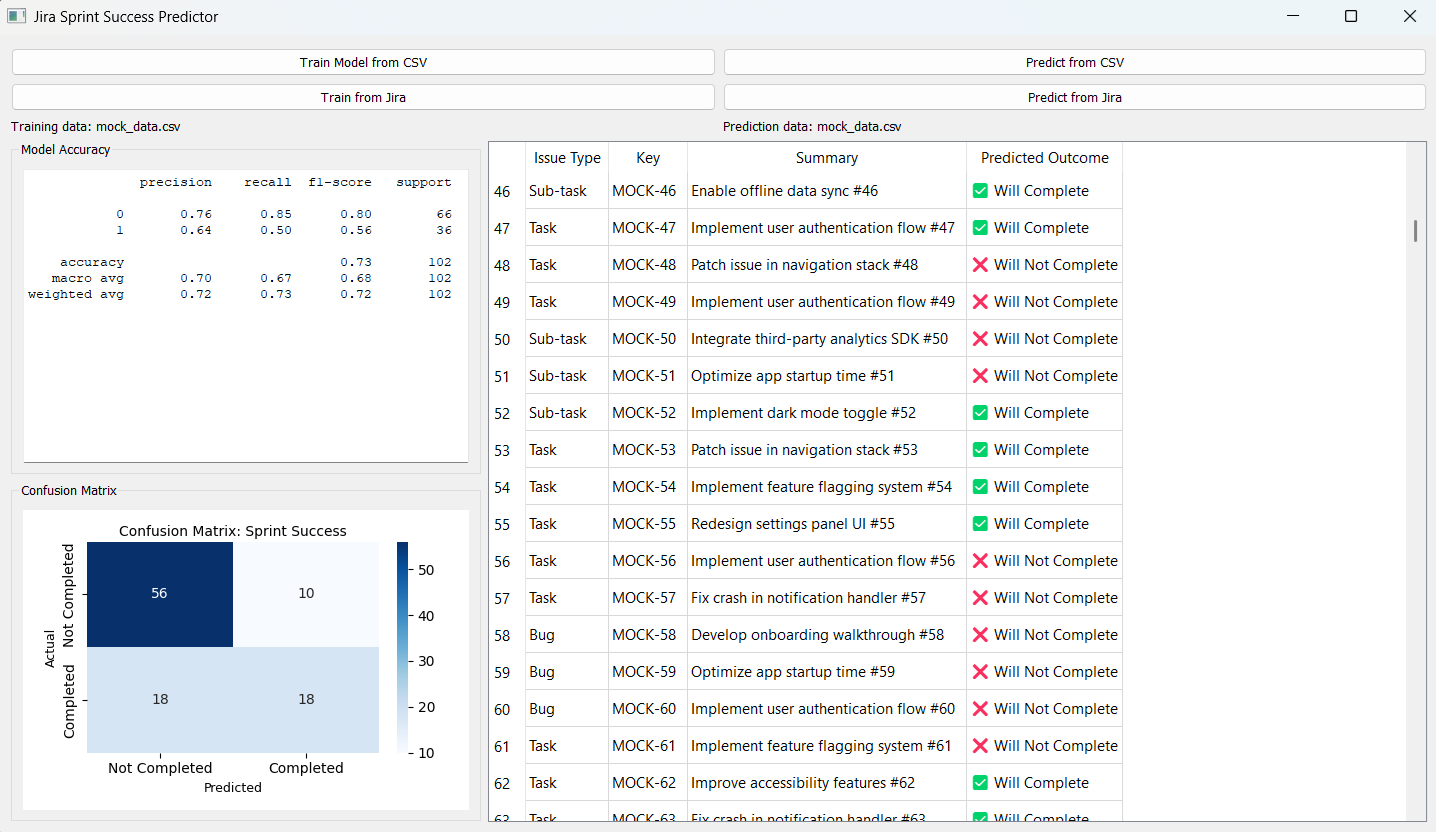
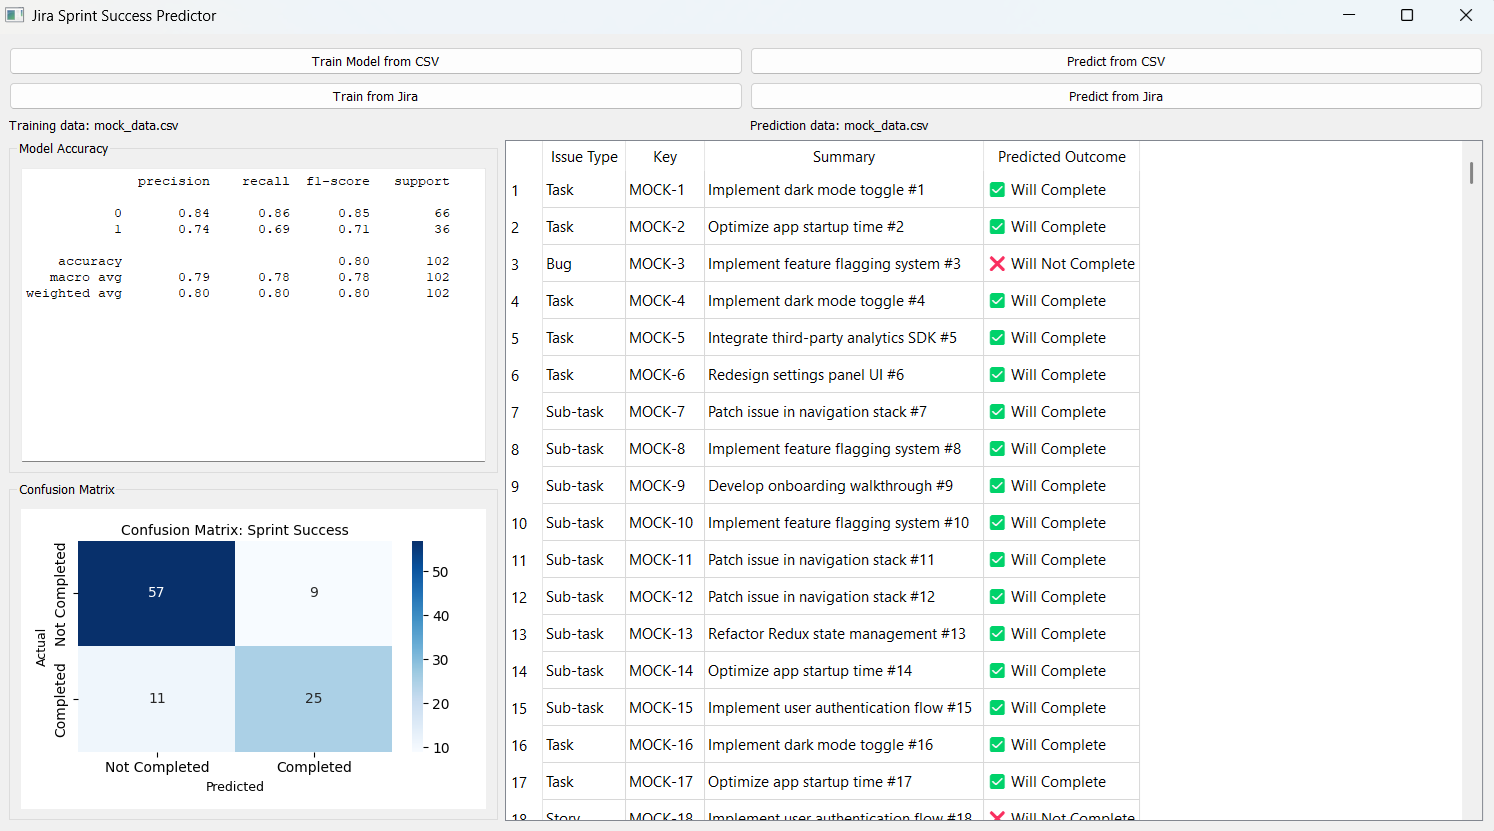
Use RandomForestClassifier instead of LogisticRegression Updated:  model.py  readme  screenshot

diff --git a/src/model.py b/src/model.py
@@ -1,10 +1,9 @@
 # Import required libraries for machine learning and visualization
 import pandas as pd
-from sklearn.model_selection import train_test_split
-from sklearn.preprocessing import OneHotEncoder, StandardScaler
+from sklearn.preprocessing import OneHotEncoder
 from sklearn.compose import ColumnTransformer
 from sklearn.pipeline import Pipeline
-from sklearn.linear_model import LogisticRegression
+from sklearn.ensemble import RandomForestClassifier
 from sklearn.metrics import classification_report, confusion_matrix
 import joblib
 import matplotlib.pyplot as plt
@@ -27,8 +26,10 @@ class SprintSuccessModel:
             ("preprocess", ColumnTransformer([
                 ("cat", OneHotEncoder(handle_unknown="ignore"), self.categorical)
             ], remainder='passthrough')),
-            ("scaler", StandardScaler(with_mean=False)),
-            ("classifier", LogisticRegression(max_iter=5000))
+            ("classifier", RandomForestClassifier(
+                n_estimators=100,
+                random_state=42
+            ))
         ])
 
     def train(self, X, y):

diff --git a/README.md b/README.md
@@ -64,11 +64,11 @@ The AI model uses the following features:
 | Issue Age at Sprint End | Days between issue creation and sprint end |
 | Activity Level | Comment count |
 
-The core of the prediction engine is a Logistic Regression model from scikit-learn, chosen for its:
-- Compatibility with both numerical and categorical features via preprocessing
-- Interpretability through feature weights and class probabilities
-- Fast training and good performance on moderately sized datasets
-- Robustness and simplicity for real-world applications
+The core of the prediction engine is a Random Forest Classifier from scikit-learn, chosen for its:
+- Ability to handle both numerical and categorical features
+- Feature importance insights
+- Robust performance with limited data
+- Resistance to overfitting
 
 ## Challenges
 
